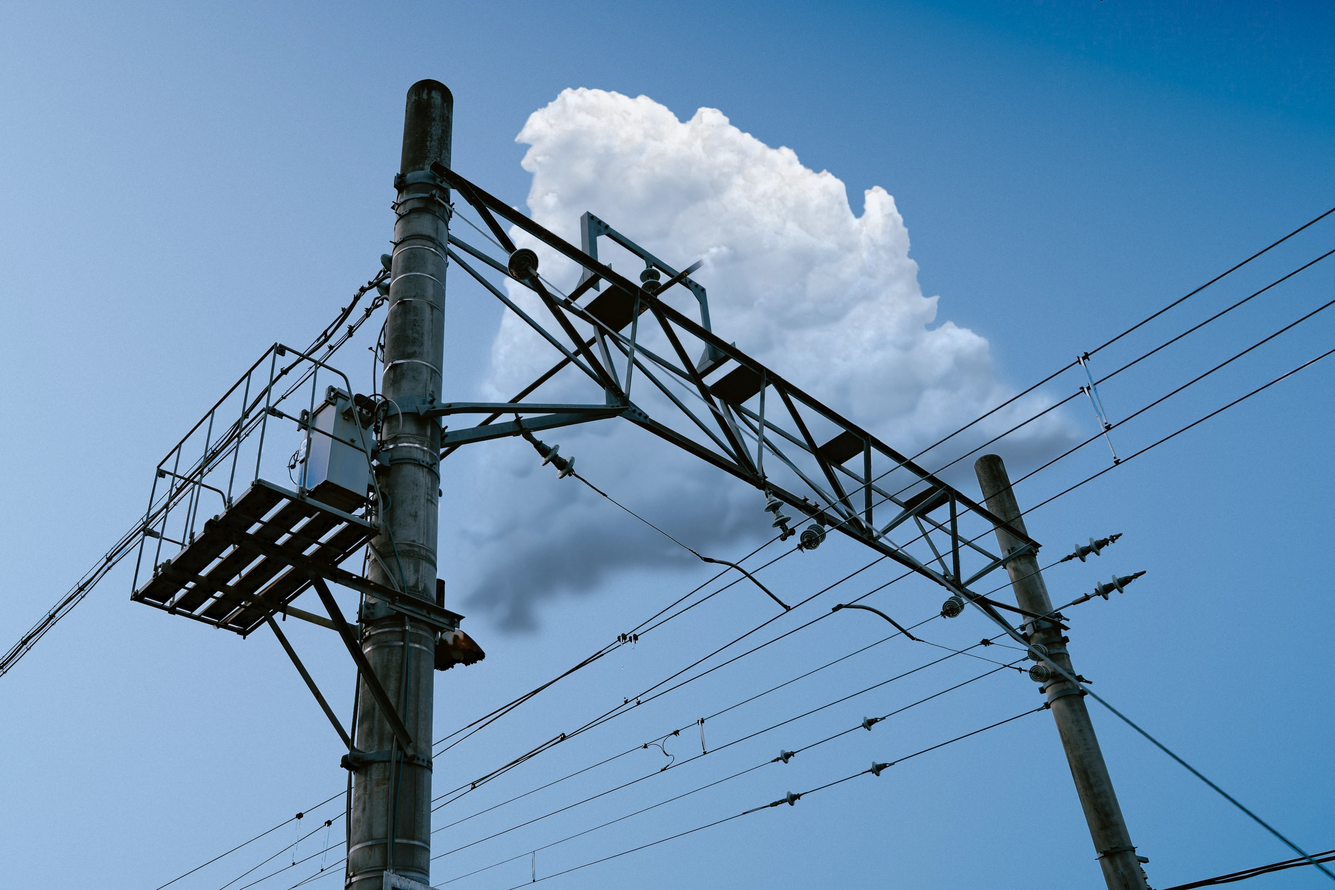
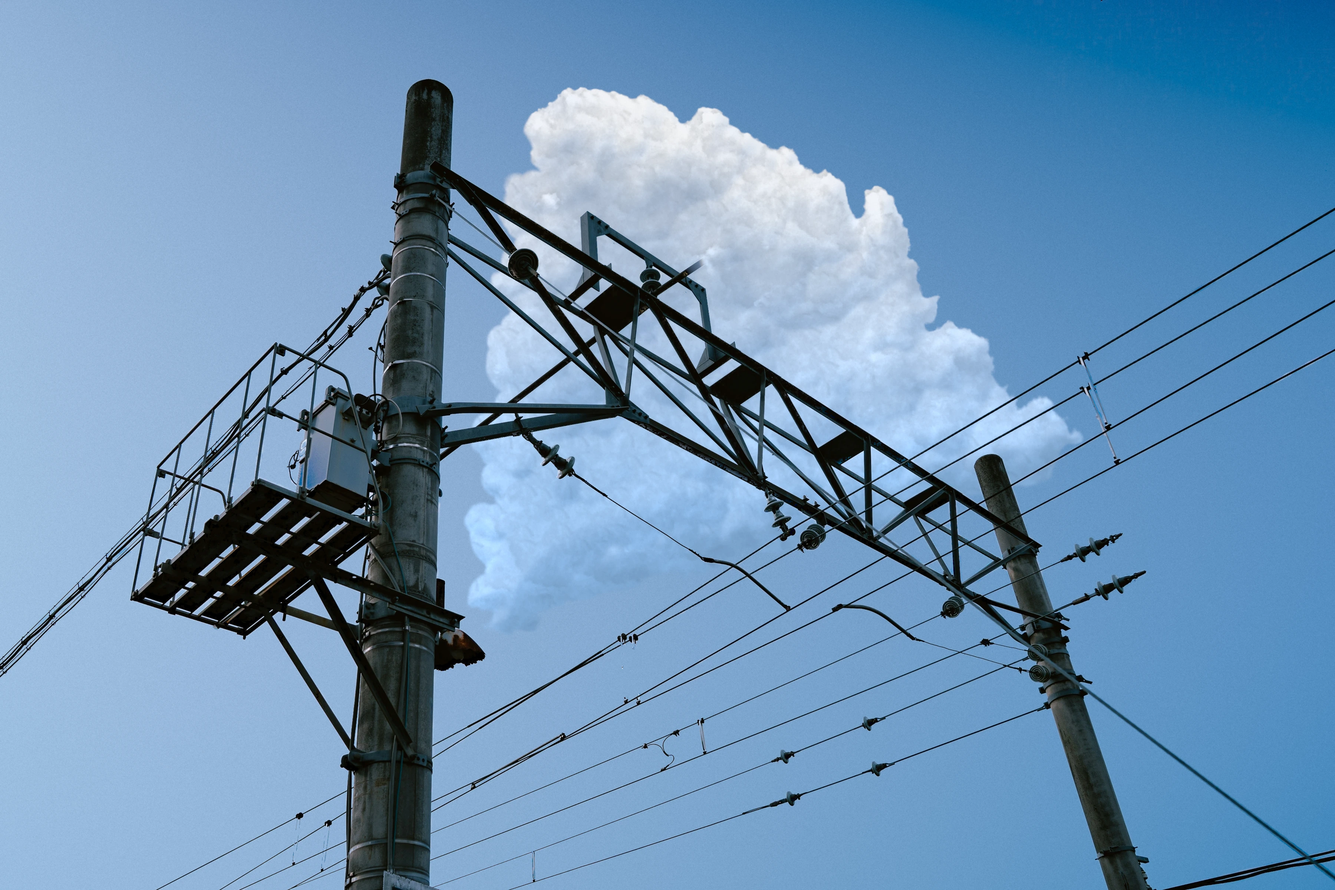
Lab: climb catenary round 1
Claude-Session: https://claude.ai/code/session_01RqENhngNCzDFmJWDZueXGV

Changed region(s): [[0.3422, 0.375, 0.8089, 0.7188], [0.3733, 0.1562, 0.4044, 0.3438]]

diff --git a/src/app/lab/catenary/strings.js b/src/app/lab/catenary/strings.js
@@ -6,14 +6,19 @@ import { clamp } from "../_kit/stage";
 export const NODES = 96; // segments; the offline polyline has NODES + 1 points
 
 // Per wire: fundamental (Hz), pluck reach (css px at a 1280 box), breeze sway
-// (device px at mid span), coupling into its structure.
+// (device px at mid span), coupling into its structure, and give: how much of
+// TAUT it takes. The feeder's long run gave it a bend you can see; the low
+// and east wires are short, thin spans seen from far below, and at the same
+// TAUT a full pull moved them some 20 device px, lost under the truss. They
+// are drawn further (give) and hold the hand longer (reach), so a drag
+// visibly bends every wire, not only the feeder.
 export const TUNE = {
-  feeder: { f1: 1.05, reach: 36, sway: 2.6, coup: 1 },
-  low: { f1: 1.35, reach: 32, sway: 1.8, coup: 1 },
-  east1: { f1: 1.7, reach: 24, sway: 1.1, coup: 1 },
-  east2: { f1: 1.8, reach: 24, sway: 1.1, coup: 1 },
-  east3: { f1: 1.55, reach: 24, sway: 1.3, coup: 1 },
-  east4: { f1: 1.6, reach: 24, sway: 1.3, coup: 1 },
+  feeder: { f1: 1.05, reach: 36, sway: 2.6, coup: 1, give: 1 },
+  low: { f1: 1.35, reach: 54, sway: 1.8, coup: 1, give: 2.6 },
+  east1: { f1: 1.7, reach: 44, sway: 1.1, coup: 1, give: 2.4 },
+  east2: { f1: 1.8, reach: 44, sway: 1.1, coup: 1, give: 2.4 },
+  east3: { f1: 1.55, reach: 44, sway: 1.3, coup: 1, give: 2.2 },
+  east4: { f1: 1.6, reach: 44, sway: 1.3, coup: 1, give: 2.2 },
 };
 // Peak transverse give of a held wire, as a fraction of its visible run.
 export const TAUT = 0.035;
@@ -192,7 +197,7 @@ export function makeString(def, index) {
     pad: 1.2,
     // The most a hand can hold it aside, image px: a taut wire gives only a
     // few percent of its visible run before the tension wins.
-    give: TAUT * (jExit - j0) * ds,
+    give: TAUT * (tune.give ?? 1) * (jExit - j0) * ds,
     knot,
     shade,
     jExit,

diff --git a/tools/depth/bakes/catenary/sky.py b/tools/depth/bakes/catenary/sky.py
@@ -37,14 +37,17 @@
 #     around the tower (CUTS) give the cloud back to sky on its own light,
 #     so it ends on lobes and nothing is carried on by reflection; one more
 #     trims the flank's thin hooked tail, so the flank ends on its last lobe.
-#     At the scale of the whole tower its value falls from the sunlit crown
-#     to a skylight blue-grey lower body, each lobe sitting on a shaded base
-#     (VOL, LOBES), and its matte goes from crisp on the crown to a hazy
-#     falloff of 1/60 of the frame's width down the lower half (HAZE).
+#     The left flank is a stack of cauliflower lobes stepping out as the
+#     tower widens down (FLANK), not a straight cut. At the scale of the
+#     whole tower its value falls from the sunlit crown to a pale skylight
+#     blue lower body, lit by the sky and never as deep as the cobalt beside
+#     it, each lobe sitting on a shaded base (VOL, LOBES); its matte stays a
+#     lobe's edge all the way down, a touch softer on the lower half (HAZE).
 #     Above a cut near 1/40 of the frame's width its texture is not the
 #     magnified photograph's: the crown's own band at its native resolution
-#     is quilted in (the detail, below), crisp on the sunlit turrets, soft
-#     on the skylit body, and the plate is dithered once on its way to 8 bits.
+#     is quilted in (the detail, below), crisp on the sunlit turrets and
+#     carried on down through the skylit body, and the plate is dithered once
+#     on its way to 8 bits.
 #  4. The new sky goes in behind the steel by difference: each pixel adds
 #     (1 - steel) times the change of background under it, against the old
 #     background filled in under the steel, so a mast edge that was mixed
@@ -81,9 +84,9 @@ LEFT = 1234  # plate column of source column SRC_X0
 TOP = 52  # plate row of the source's row 0
 
 
-def at(x, y):
-    # source px -> plate px
-    return (LEFT + (x - SRC_X0) * SCALE, TOP + y * SCALE)
+def at(x, y, _top=TOP):
+    # source px -> plate px (TOP is bound here: the name is reused below)
+    return (LEFT + (x - SRC_X0) * SCALE, _top + y * SCALE)
 
 
 # Where the tower gives way to sky, as lines in source px, each with how far
@@ -98,8 +101,10 @@ def at(x, y):
 # the thin bright neck that joined the crown to the lobe beside its pole
 # would reach out past it as a wisp.
 CUTS = [
-    ((2399, 940), (975, 1300), 200.0, 6.0),  # the base
-    ((1130, 150), (980, 1000), 60.0, 12.0),  # the left side
+    # the base: given way to over 110 px, not the 200 px ramp it was, which
+    # with the haze matte gone left a soft grey airbrushed underside
+    ((2399, 940), (975, 1300), 110.0, 6.0),
+    # The left side is not a line any more (FLANK, below).
     ((1170, 110), (1000, 380), 40.0, 0.0),  # the crown's left shoulder
     # The flank's last step. Past its lowest full lobe (source x ~2240) the
     # source's edge ran on into a thin, hooked tail that the base line left
@@ -107,6 +112,50 @@ CUTS = [
     ((2250, 780), (2215, 1010), 50.0, 8.0),
 ]
 INSIDE = (1400, 380)  # a source point well inside the crown
+# The left flank. A straight cut there (it ran from the notch left of the
+# crown's peak down to the source's pole) read, under the crown, as a
+# pasted cutout's edge, one vertical line the whole height of the body. It is
+# now a stack of cauliflower lobes, stepping out to the left as the tower
+# widens down (a towering cumulus is a heap of rising cells, each bulging
+# past the one above): the cloud is the union of a half-plane held FLANK_IN
+# source px inside the old line and a column of round lobes along it, each
+# reaching past the line by its own step, with small sub-lobes boiling out of
+# the upper, sunlit side of each, and notches in between that go back in to
+# the half-plane. The lobes are domes in the volume (LOBES) too, so each
+# takes the sun on its upper left and sits on a shaded base.
+FLANK = ((1130, 150), (1050, 1000))
+FLANK_IN = 45
+FLANK_W = 26.0  # plate px over which a lobe's edge gives way
+FLANK_ROWS = (330, 1240)
+FLANK_TOP = (200, 380)  # source rows over which the half-plane steps in
+
+
+def flank_lobes():
+    (xa, ya), (xb, yb) = FLANK
+    rng_f = np.random.default_rng(5)
+    lobes, y, i = [], FLANK_ROWS[0], 0
+    while y < FLANK_ROWS[1]:
+        r = rng_f.uniform(48, 80) * (1 + 0.35 * (y - FLANK_ROWS[0]) / (FLANK_ROWS[1] - FLANK_ROWS[0]))
+        cy = y + 0.8 * r
+        lx = xa + (xb - xa) * (cy - ya) / (yb - ya) + FLANK_IN
+        # the step: how far past the half-plane this lobe reaches
+        reach = FLANK_IN + (rng_f.uniform(-12, 4) if i % 2 else rng_f.uniform(24, 42))
+        cx = max(lx - reach + r, SRC_X0 + 12 + r)  # nothing left of the source's own cloud
+        lobes.append((cx, cy, r))
+        # one or two sub-lobes on its upper left, cauliflower
+        for _ in range(int(rng_f.integers(1, 3))):
+            ang = np.radians(rng_f.uniform(115, 190))
+            rs = r * rng_f.uniform(0.32, 0.48)
+            d = r - rs * rng_f.uniform(0.15, 0.45)
+            sx_, sy_ = cx + d * np.cos(ang), cy - d * np.sin(ang)
+            if sx_ - rs > SRC_X0 + 12:
+                lobes.append((sx_, sy_, rs))
+        y += r * rng_f.uniform(1.15, 1.45)
+        i += 1
+    return lobes
+
+
+FLANK_LOBES = flank_lobes()
 # Developed brighter: linear gain on the cloud, premultiplied.
 GAIN = 1.2
 
@@ -261,6 +310,18 @@ for a_, b_, width, lobe_k in CUTS:
     s_in = ((gx - xa) * nx + (gy - ya) * ny) / np.hypot(nx, ny)
     s_in *= np.sign((ix - xa) * nx + (iy - ya) * ny)  # positive inside
     fade *= smooth(0.3, 0.7, s_in / width + lobe_k * lobe)
+# The flank: the half-plane inside the old line, or inside any of its lobes
+# (plate px, positive inside), given way to over FLANK_W, a lobe a little
+# further where its own light is brighter.
+(xa, ya), (xb, yb) = at(*FLANK[0]), at(*FLANK[1])
+nx, ny = ya - yb, xb - xa
+s_in = ((gx - xa) * nx + (gy - ya) * ny) / np.hypot(nx, ny)
+s_in = s_in * np.sign((ix - xa) * nx + (iy - ya) * ny) - FLANK_IN * SCALE * smooth(at(0, FLANK_TOP[0])[1], at(0, FLANK_TOP[1])[1], gy)
+for cx_, cy_, r_ in FLANK_LOBES:
+    px_, py_ = at(cx_, cy_)
+    np.maximum(s_in, r_ * SCALE - np.hypot(gx - px_, gy - py_), out=s_in)
+fade *= smooth(-0.5, 0.5, s_in / FLANK_W + 4.0 * lobe)
+del s_in
 fade = cv2.GaussianBlur((fade * (sy_ >= 0) * (sx >= SRC_X0)).astype(np.float32), (0, 0), 1.5)
 am *= fade
 Pm *= fade[..., None]
@@ -272,6 +333,7 @@ if n > 2:
     am *= keep
     Pm *= keep[..., None]
 
+del Pm
 # The matte, feathered. The red-to-blue unmix calls the cloud's edge opaque
 # a dozen px further out than it is: there the source's own sky is still in
 # the pixel, and that grey-blue band, hard against this sky and deepened by
@@ -303,6 +365,7 @@ a2 = np.clip(((Sm - Km) * dc).sum(-1) / np.maximum((dc * dc).sum(-1), 1e-4), 0, 
 a2 *= cv2.dilate(am, cv2.getStructuringElement(cv2.MORPH_ELLIPSE, (15, 15)))
 af_soft = cv2.GaussianBlur(a2.astype(np.float32), (0, 0), AF_SOFT * W / 4)
 af = cv2.GaussianBlur(smooth(*EDGE_RAMP, cv2.GaussianBlur(a2.astype(np.float32), (0, 0), 0.8)), (0, 0), FEATHER * W / 4)
+del Sm, Km, dc, a2
 
 # The form. As photographed and developed, the cloud's body under the tower
 # came out one flat pale wash (behind the truss, a 16 px patch varies about
@@ -324,9 +387,9 @@ af = cv2.GaussianBlur(smooth(*EDGE_RAMP, cv2.GaussianBlur(a2.astype(np.float32),
 # loses BODY_SHADE of the sun, so the tower stands sunlit on top of a
 # skylight-blue lower body.
 FORM = 0.45
-FORM_BODY = 0.9
+FORM_BODY = 0.6
 BODY = (480, 1150)  # source rows: the crown's foot, the lowest body shown
-BODY_SHADE = 0.55
+BODY_SHADE = 0.3
 SUN = 125  # degrees, toward the sun (0 right, 90 up), as PLATE in the engine
 FORM_ELEV = 30
 FORM_RELIEF = (10.0, 4.0)  # normal gain on the lobes, on the matte
@@ -336,6 +399,10 @@ TOP = (0xF6, 0xF3, 0xEC)
 TOP_Y = 0.92  # linear luma of a fully lit billow
 SKYLIGHT = (207, 0.4, 0.72)  # its saturation set over, the print eases chroma off
 FORM_SHADE = 0.76
+# The lower body's skylight, lifted. Lit only by the sky, it is still a
+# cloud: a pale skylight blue, never as deep as the cobalt beside it (it read
+# as a blue-grey slab at sky value and below).
+BODY_LIFT = 0.45
 
 
 def gauss(x, s):
@@ -387,7 +454,7 @@ ao = np.clip(1 + 2.5 * (gauss(Ys, 4) - gauss(Ys, 32)), 0.75, 1.1)
 top = srgb_to_lin(np.array(TOP, np.float32) / 255)
 top *= TOP_Y / float(top @ LUMA)
 shade = srgb_to_lin(hsv_rgb(*SKYLIGHT)) * FORM_SHADE
-lo = shade * ao[..., None] * (1 - sunlit[..., None]) + top * sunlit[..., None]
+lo = shade * ao[..., None] * (1 - sunlit[..., None]) * (1 + BODY_LIFT * under[..., None]) + top * sunlit[..., None]
 lo = cv2.resize(lo, (W, H), interpolation=cv2.INTER_CUBIC)
 detail = np.clip(ylin / np.maximum(gauss(ylin, 4), 1e-4), 0.85, 1.15)
 form = (FORM + (FORM_BODY - FORM) * cv2.resize(under, (W, H), interpolation=cv2.INTER_LINEAR))[..., None]
@@ -423,14 +490,15 @@ if os.environ.get("DEBUG"):
 # shading kept from the low band). It is weighted by the low band's light:
 # the sunlit turrets take all of DETAIL (crisp, bright cauliflower edges,
 # the crown's billows being low in contrast as shot), the skylit lower body
-# DETAIL_FLOOR of it, so it stays soft.
+# DETAIL_FLOOR of it: softer than the crown, but the same billows, carried
+# down through the body (at 0.15 it went to an airbrushed slab).
 LP = 14.0
 NATIVE = 2048 / sW  # published source px per px of this copy
 PATCH, STEP = 64, 48
 TURN = (-30, 0, 30)
 DETAIL = 2.4
 FINE = 0.5
-DETAIL_FLOOR = 0.15
+DETAIL_FLOOR = 0.6
 DETAIL_LIT = (0.7, 0.9)  # low-band light (sRGB) over which it comes in
 
 
@@ -572,8 +640,9 @@ col *= (ys_ / np.maximum(yc_, 1e-4))[..., None]
 # sunlit crown over a body in its own shade, each cauliflower lobe sitting
 # on a darker base. So the value is graded once more at the scale of the
 # cloud. Down the tower (source rows VOL), it falls from the crown's sunlit
-# paper to a skylight blue-grey lower body (VOL_DARK of its light gone,
-# VOL_TINT of the way to BASE's colour). And it is laid out as lobes: a
+# paper to a pale skylight-blue lower body (VOL_DARK of its light gone,
+# VOL_TINT of the way to BASE's colour; at 0.3, with the form term's shade,
+# the body sank to the sky's own value and below). And it is laid out as lobes: a
 # field of domes (two sizes, LOBES, as a fraction of the frame width) inside
 # the matte, over the matte's own outline inflated, lit from the sun the form
 # term uses, high (LOBE_ELEV); where a dome turns from the sun, under each
@@ -581,12 +650,12 @@ col *= (ys_ / np.maximum(yc_, 1e-4))[..., None]
 # (crown, lower body) and goes to BASE, so every lobe sits on a shaded base
 # and the underside is dark. The crown keeps its light and its crisp edge.
 VOL = (280, 1050)
-VOL_DARK = 0.3
+VOL_DARK = 0.06
 VOL_TINT = 0.7
 BASE = (210, 0.42)  # hue, saturation of the lower body's skylight grey-blue
 LOBES = ((0.07, 1.0), (0.035, 0.55))  # spacing (of W), relative height
 LOBE_ELEV = 38
-LOBE_SHADE = (0.18, 0.28)
+LOBE_SHADE = (0.18, 0.25)
 hW, hH = h2
 yy_, xx_ = np.mgrid[0:hH, 0:hW].astype(np.float32)
 Ah = cv2.resize(af, h2, interpolation=cv2.INTER_AREA)
@@ -608,6 +677,17 @@ for frac, rel in LOBES:
             np.maximum(layer[y0_:y1_, x0_:x1_], np.sqrt(np.maximum(r_ * r_ - d2, 0)) * rel / sp * LOBES[0][0] * hW,
                        out=layer[y0_:y1_, x0_:x1_])
     dome += layer
+# The flank's lobes, each a dome of its own, so the stepped cells along the
+# left side are round, lit on top and shaded under, not a scalloped cut.
+for cx_, cy_, r_ in FLANK_LOBES:
+    px_, py_ = at(cx_, cy_)
+    px_, py_, rh = px_ / 2, py_ / 2, r_ * SCALE / 2
+    x0_, x1_ = int(max(px_ - rh, 0)), int(min(px_ + rh + 1, hW))
+    y0_, y1_ = int(max(py_ - rh, 0)), int(min(py_ + rh + 1, hH))
+    if x1_ <= x0_ or y1_ <= y0_:
+        continue
+    d2 = (xx_[y0_:y1_, x0_:x1_] - px_) ** 2 + (yy_[y0_:y1_, x0_:x1_] - py_) ** 2
+    np.maximum(dome[y0_:y1_, x0_:x1_], np.sqrt(np.maximum(rh * rh - d2, 0)) * 0.9, out=dome[y0_:y1_, x0_:x1_])
 R0 = 0.06 * hW
 dist = cv2.distanceTransform((Ah > 0.5).astype(np.uint8), cv2.DIST_L2, 5)
 dist = np.minimum(dist, R0)
@@ -636,13 +716,13 @@ if os.environ.get("DEBUG"):
     cv2.imwrite(WORK + "/vol-lit.png", (np.clip(lit_v, 0, 1) * 255).astype(np.uint8))
     cv2.imwrite(WORK + "/vol-val.png", (np.clip(vval, 0, 1) * 255).astype(np.uint8))
 
-# The matte, by height. A congestus is crisp where its crown boils up in sun
-# and goes to haze down its body: over the lower half of the tower (source
-# rows HAZE) the matte widens from the crown's two px to a soft falloff of
-# HAZE_W of the frame width (sky to full cloud), and leans outward (the
-# haze lies off the body, it does not eat into it).
+# The matte, by height. Over the lower half of the tower (source rows HAZE)
+# the matte softens a little past the crown's two px, to HAZE_W of the frame
+# width, and leans outward. It was a haze of 1/60 of the width, and the body
+# read as an airbrushed blob under a crisp crown: the lobes of the lower body
+# keep an edge, so the tower reads as one cumulus.
 HAZE = (560, 820)
-HAZE_W = 1 / 60
+HAZE_W = 1 / 700
 hz = smooth(HAZE[0], HAZE[1], sy_)
 sig_h = HAZE_W * W / 3.3
 k_h = 2 * int(0.5 * sig_h) + 1
